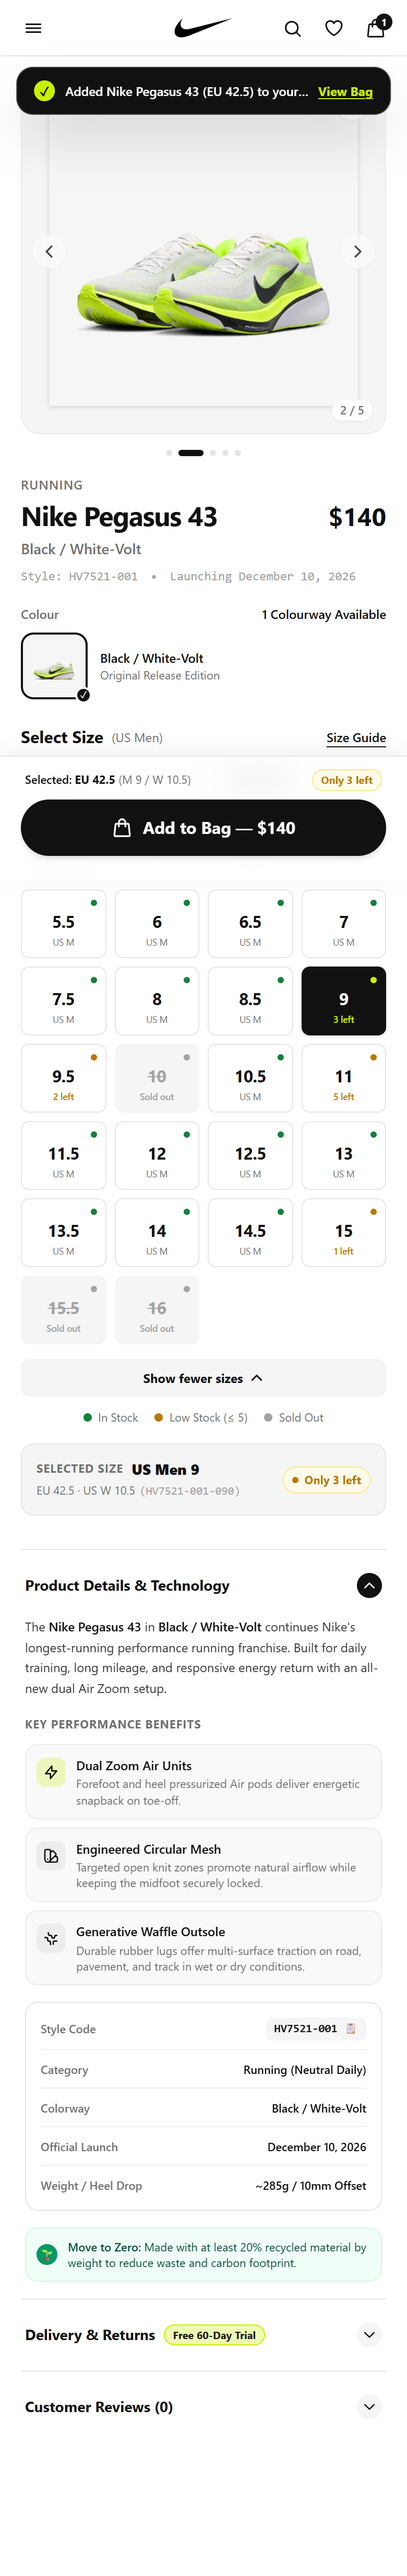
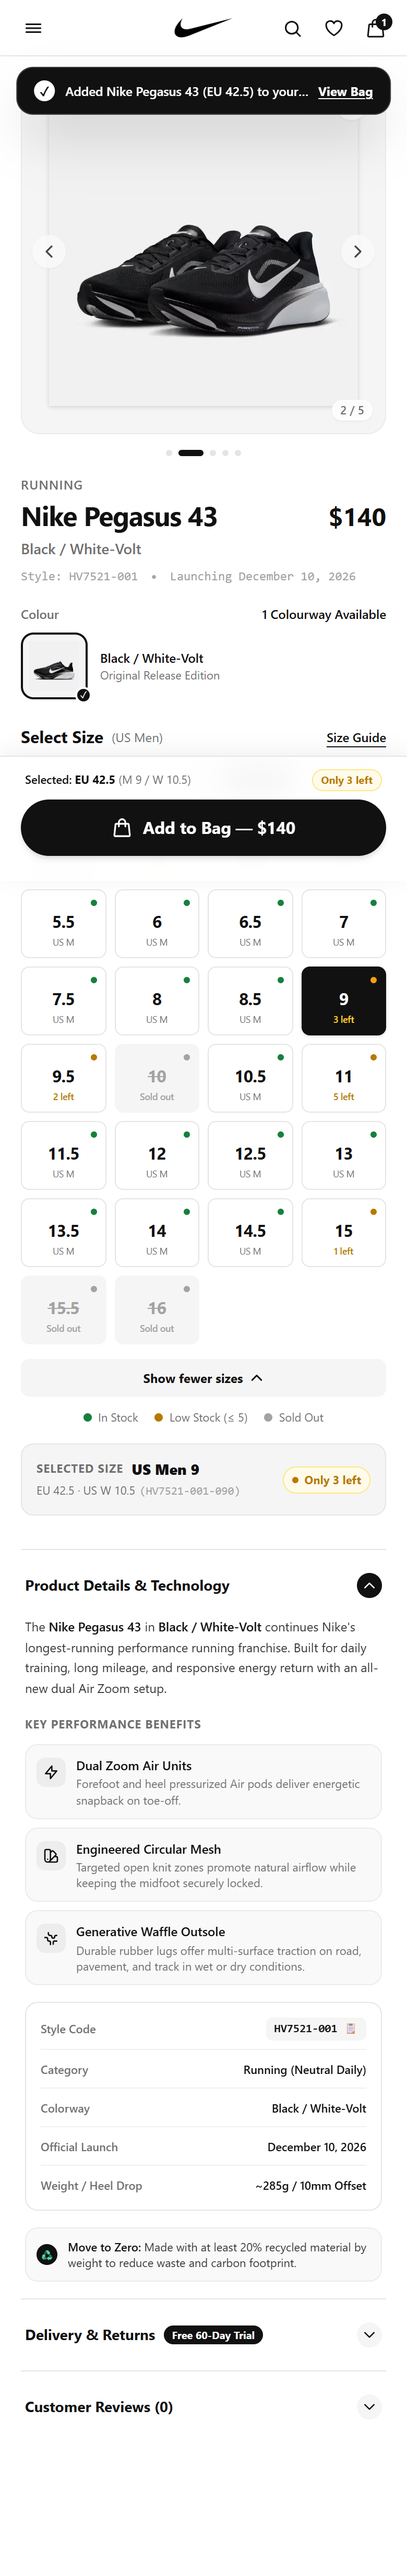
feat: replace shoe images with official 5-view photography and enforce strict Nike Black & White theme

diff --git a/components/ProductAccordion.tsx b/components/ProductAccordion.tsx
@@ -51,7 +51,7 @@ export default function ProductAccordion() {
 
             <div className="grid grid-cols-1 gap-2">
               <div className="flex items-start gap-2.5 p-2.5 rounded-xl bg-[#F9F9F9] border border-[#EBEBEB]">
-                <div className="w-7 h-7 rounded-lg bg-[#C7F000]/25 text-[#111111] flex items-center justify-center shrink-0 mt-0.5">
+                <div className="w-7 h-7 rounded-lg bg-[#111111]/5 text-[#111111] flex items-center justify-center shrink-0 mt-0.5">
                   <svg className="w-4 h-4" fill="none" stroke="currentColor" strokeWidth="2" viewBox="0 0 24 24">
                     <path strokeLinecap="round" strokeLinejoin="round" d="M13 10V3L4 14h7v7l9-11h-7z" />
                   </svg>
@@ -131,12 +131,12 @@ export default function ProductAccordion() {
           </div>
 
           {/* Move to Zero Eco Banner */}
-          <div className="flex items-center gap-2.5 p-2.5 rounded-xl bg-emerald-50/70 border border-emerald-100 text-[11px] text-emerald-900">
-            <span className="w-5 h-5 rounded-full bg-emerald-600 text-white flex items-center justify-center font-bold text-[10px] shrink-0">
-              🌱
+          <div className="flex items-center gap-2.5 p-2.5 rounded-xl bg-[#F9F9F9] border border-[#EBEBEB] text-[11px] text-[#333333]">
+            <span className="w-5 h-5 rounded-full bg-[#111111] text-white flex items-center justify-center font-bold text-[10px] shrink-0">
+              &#9851;
             </span>
             <p className="leading-snug">
-              <span className="font-semibold">Move to Zero:</span> Made with at least 20% recycled material by weight to reduce waste and carbon footprint.
+              <span className="font-semibold text-[#111111]">Move to Zero:</span> Made with at least 20% recycled material by weight to reduce waste and carbon footprint.
             </p>
           </div>
         </div>
@@ -268,7 +268,7 @@ export default function ProductAccordion() {
               <div className="flex items-center gap-2">
                 <span>{sec.title}</span>
                 {sec.badge && (
-                  <span className="text-[10px] font-bold bg-[#C7F000]/30 text-[#111111] px-2 py-0.5 rounded-full border border-[#C7F000]">
+                  <span className="text-[10px] font-bold bg-[#111111] text-white px-2 py-0.5 rounded-full">
                     {sec.badge}
                   </span>
                 )}

diff --git a/components/AddToBag.tsx b/components/AddToBag.tsx
@@ -35,7 +35,7 @@ export default function AddToBag({ selectedVariant }: AddToBagProps) {
       sizeLabel: selectedVariant.size_label,
       sizeEu: selectedVariant.size_eu,
       price: productInfo.price,
-      image: "/assets/pegasus-lateral.webp",
+      image: "/assets/nike-pegasus-43-1.webp",
     });
 
     setToastMessage(
@@ -62,7 +62,7 @@ export default function AddToBag({ selectedVariant }: AddToBagProps) {
           className="fixed top-16 left-1/2 -translate-x-1/2 w-[360px] max-w-[92vw] z-50 bg-[#111111] text-white py-3 px-4 rounded-2xl shadow-2xl flex items-center justify-between border border-neutral-700 animate-slide-up"
         >
           <div className="flex items-center gap-2.5 min-w-0 mr-2">
-            <span className="w-5 h-5 rounded-full bg-[#C7F000] text-[#111111] flex items-center justify-center text-xs font-bold shrink-0">
+            <span className="w-5 h-5 rounded-full bg-white text-[#111111] flex items-center justify-center text-xs font-bold shrink-0">
               &#10003;
             </span>
             <p className="text-xs font-medium truncate">{toastMessage}</p>
@@ -70,7 +70,7 @@ export default function AddToBag({ selectedVariant }: AddToBagProps) {
           <button
             type="button"
             onClick={() => setIsBagOpen(true)}
-            className="text-xs font-bold text-[#C7F000] underline underline-offset-2 shrink-0 hover:text-white transition-colors"
+            className="text-xs font-bold text-white underline underline-offset-2 shrink-0 hover:text-neutral-300 transition-colors"
           >
             View Bag
           </button>
@@ -114,7 +114,7 @@ export default function AddToBag({ selectedVariant }: AddToBagProps) {
               isDisabled
                 ? "bg-[#F5F5F5] text-[#707070] hover:text-[#111111] hover:border-[#111111] cursor-pointer border border-[#E5E5E5] active:scale-[0.99]"
                 : isAdding
-                ? "bg-[#C7F000] text-[#111111] scale-[0.99]"
+                ? "bg-neutral-800 text-white scale-[0.99]"
                 : "bg-[#111111] text-white hover:bg-neutral-800 active:scale-[0.98] shadow-md"
             }`}
             aria-label={

diff --git a/components/ProductGallery.tsx b/components/ProductGallery.tsx
@@ -11,28 +11,28 @@ interface GallerySlide {
 
 const GALLERY_SLIDES: GallerySlide[] = [
   {
-    src: "/assets/pegasus-lateral.webp",
-    alt: "Nike Pegasus 43 lateral profile view in Black / White-Volt showing engineered mesh, volt gradient midsole and black swoosh",
+    src: "/assets/nike-pegasus-43-1.webp",
+    alt: "Nike Pegasus 43 lateral profile view in Black / White showing engineered mesh, responsive midsole and iconic black swoosh",
     label: "Lateral Profile",
   },
   {
-    src: "/assets/pegasus-pair.webp",
+    src: "/assets/nike-pegasus-43-5.webp",
     alt: "Nike Pegasus 43 three-quarter pair perspective showing toe box and lacing system",
     label: "Pair Angle",
   },
   {
-    src: "/assets/pegasus-medial.webp",
+    src: "/assets/nike-pegasus-43-2.webp",
     alt: "Nike Pegasus 43 medial arch view showing supportive inner midsole cushioning",
     label: "Medial Profile",
   },
   {
-    src: "/assets/pegasus-outsole.webp",
-    alt: "Nike Pegasus 43 waffle-inspired rubber outsole traction pods in volt and white",
+    src: "/assets/nike-pegasus-43-3.webp",
+    alt: "Nike Pegasus 43 waffle-inspired rubber outsole traction pods in black and white",
     label: "Outsole Traction",
   },
   {
-    src: "/assets/pegasus-detail-1.png",
-    alt: "Nike Pegasus 43 overhead view showing padded tongue, footbed and volt Zoom insole",
+    src: "/assets/nike-pegasus-43-4.webp",
+    alt: "Nike Pegasus 43 overhead view showing padded tongue, footbed and structured lacing",
     label: "Top-Down Footbed",
   },
 ];
@@ -98,9 +98,6 @@ export default function ProductGallery() {
           <div className="absolute top-4 left-4 z-10 flex items-center gap-1.5">
             <span className="bg-[#111111] text-white text-[10px] font-bold tracking-wider px-2.5 py-1 rounded-full uppercase shadow-xs">
               New
-            </span>
-            <span className="bg-[#C7F000] text-[#111111] text-[10px] font-bold tracking-tight px-2 py-0.5 rounded-full uppercase shadow-xs">
-              Volt
             </span>
           </div>
 

diff --git a/components/SizeTile.tsx b/components/SizeTile.tsx
@@ -67,12 +67,12 @@ export default function SizeTile({
           <span className="w-1.5 h-1.5 rounded-full bg-[#A3A3A3]" aria-hidden="true" />
         ) : isLowStock ? (
           <span
-            className={`w-1.5 h-1.5 rounded-full ${isSelected ? "bg-[#C7F000]" : "bg-[#B77900]"}`}
+            className={`w-1.5 h-1.5 rounded-full ${isSelected ? "bg-[#F59E0B]" : "bg-[#B77900]"}`}
             aria-hidden="true"
           />
         ) : (
           <span
-            className={`w-1.5 h-1.5 rounded-full ${isSelected ? "bg-white" : "bg-[#16803C]"}`}
+            className={`w-1.5 h-1.5 rounded-full ${isSelected ? "bg-emerald-400" : "bg-[#16803C]"}`}
             aria-hidden="true"
           />
         )}
@@ -100,7 +100,7 @@ export default function SizeTile({
         ) : isLowStock ? (
           <span
             className={`text-[9px] font-semibold tracking-tight ${
-              isSelected ? "text-[#C7F000]" : "text-[#B77900]"
+              isSelected ? "text-amber-300" : "text-[#B77900]"
             }`}
           >
             {variant.stock_quantity} left

diff --git a/components/BagDrawer.tsx b/components/BagDrawer.tsx
@@ -70,7 +70,7 @@ export default function BagDrawer() {
               <div key={item.sku} className="py-4 flex gap-3">
                 <div className="relative w-16 h-16 bg-[#F5F5F5] rounded-lg shrink-0 overflow-hidden border border-[#E5E5E5]/60">
                   <Image
-                    src={item.image || "/assets/pegasus-lateral.webp"}
+                    src={item.image || "/assets/nike-pegasus-43-1.webp"}
                     alt={item.productName}
                     fill
                     className="object-contain p-1"

diff --git a/components/ColorSelector.tsx b/components/ColorSelector.tsx
@@ -20,7 +20,7 @@ export default function ColorSelector() {
           >
             <div className="relative w-full h-full">
               <Image
-                src="/assets/pegasus-lateral.webp"
+                src="/assets/nike-pegasus-43-1.webp"
                 alt={productInfo.colorway}
                 fill
                 className="object-contain"
